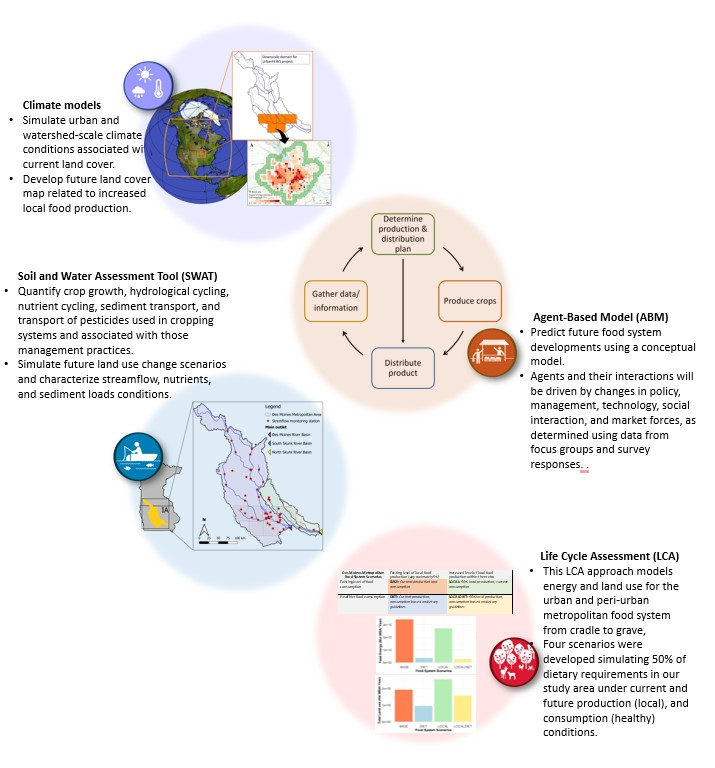
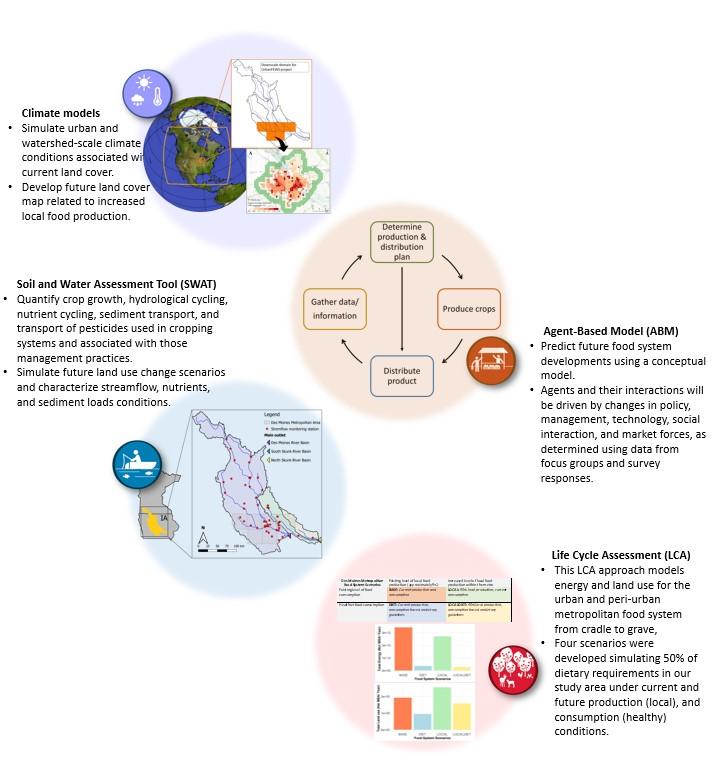
Changed some text on home. MSA models new image with no red line. swat models in base and cosim reprocessed to remove HAY and BROM as necessary

Changed region(s): [[0.0, 0.25, 0.9846, 0.7188], [0.4615, 0.7188, 0.9846, 0.9688], [0.0308, 0.0625, 0.4615, 0.3125]]

diff --git a/pages/5_CoSim_Scenario-Extension_Agents.py b/pages/5_CoSim_Scenario-Extension_Agents.py
@@ -1,7 +1,8 @@
+#%%
 import streamlit as st
 import pandas as pd
 import plotly.graph_objects as go
-
+#%%
 st.set_page_config(page_title="CoSim", page_icon=":computer:")
 st.title(':computer: :handshake: CoSimulation Scenario : Extension Agents :gear: :computer: ')
 
@@ -77,7 +78,7 @@ fig_pie.update_layout(legend=dict(
 Even after intervention by extension agents, the overall contribution of row crops to the land use patterns remains significant.
 '''
 ## _________________________________________________SWAT ________________________________________________________________________
-
+#%%
 st.header(':seedling: SWAT maps farmer activity to available HRUs :droplet: ') 
 
 import plotly.express as px
@@ -90,12 +91,17 @@ crop_codes = {
     "PEAR": "Pear", "POTA": "Potato", "PUMP": "Pumpkin", "RASP": "Raspberry",
     "SCRN": "Sweet corn", "SOYB": "Soybean", "SPIN": "Spinach", "SPOT": "Sweet potato",
     "SQUA": "Squash", "STRW": "Strawberry", "TOMA": "Tomato", "FESC": "Tall Fescue",
-    "BROM": "Meadow Bromegrass", "HAY": "Hay", "CANA": "Canola oil", "SGBT": "Sugar beet",
+    #"BROM": "Meadow Bromegrass", 
+    "WWHT" : "Winter Wheat",
+    "HAY": "Hay", "CANA": "Canola oil", "SGBT": "Sugar beet",
     "SNPB": "Snap beans"
 }
 
+#%%
 # Base file directory
 base_dir='SWAT_base/'
+
+#%%
 # Load the historical and future data
 df_swat_abm_base = pd.read_csv(base_dir+'TxtInOutABM_base_output.csv')
 df_swat_abm_ext = pd.read_csv(base_dir+'TxtInOutABM_ext_output.csv')
@@ -103,7 +109,7 @@ df_swat_abm_base.set_index('Unnamed: 0', inplace=True)
 df_swat_abm_ext.set_index('Unnamed: 0', inplace=True)
 
 # Filter and clean data
-unwanted_values = ["HAY", "WATR", "WETF", "WETN", "WWHT"]
+unwanted_values = [ "WATR", "WETF", "WETN"] # Removed HAY and WWHT from unwanted values
 df_swat_abm_base_filtered = df_swat_abm_base[~df_swat_abm_base.index.isin(unwanted_values)]
 df_swat_abm_ext_filtered = df_swat_abm_ext[~df_swat_abm_ext.index.isin(unwanted_values)]
 df_swat_abm_base_filtered.drop(columns=['AVG'], inplace=True)
@@ -112,19 +118,19 @@ df_swat_abm_ext_filtered.drop(columns=['AVG'], inplace=True)
 # Order crop_codes alphabetically by value
 crop_codes = dict(sorted(crop_codes.items(), key=lambda item: item[1]))
 selected_crop_code = st.selectbox('Select a Crop', options=list(crop_codes.keys()), format_func=lambda x: crop_codes[x])
-
+#%%
 # Extract data for selected crop across all available years
 data_swat_abm_base = df_swat_abm_base_filtered.loc[selected_crop_code].reset_index()
 data_swat_abm_ext = df_swat_abm_ext_filtered.loc[selected_crop_code].reset_index()
-data_swat_abm_base['Dataset'] = 'Base Sceneario'
-data_swat_abm_ext['Dataset'] = 'Exetnsion Agents Intervention'
+data_swat_abm_base['Dataset'] = 'Base Scenario'
+data_swat_abm_ext['Dataset'] = 'Extension Agents Intervention'
 
 # Combine data
 combined_data = pd.concat([data_swat_abm_base, data_swat_abm_ext])
-
+#%%
 # Plot boxplot
 fig_swat_box = px.box(combined_data, x='Dataset', y=selected_crop_code, color='Dataset', 
-                      title=f'Boxplot Comparison for {crop_codes[selected_crop_code]} (1999-2018)')
+                      title=f'Boxplot Comparison for {crop_codes[selected_crop_code]} ')
 
 # Update x-axis label
 fig_swat_box.update_xaxes(title_text="Scenario")
@@ -137,14 +143,14 @@ fig_swat_box.update_layout(showlegend=False)
 
 st.plotly_chart(fig_swat_box)
 
-''' At the end of swat the marketable yields are calculated for eeach crop and this is used as input to LCA'''
+''' At the end of swat the marketable yields are calculated for each crop and this is used as input to LCA'''
     
 ## _________________________________________________LCA ________________________________________________________________________
 
 
 st.header(':ear_of_rice: Life Cycle Analysis of Food Systems ')  
 
-st.subheader('Current vs Future scenario:')
+st.subheader('Base vs Extension Agent scenario:')
 
 chart_data_base = pd.read_pickle(r'lca_abm_base.pickle')
 

diff --git a/pages/2_SWAT.py b/pages/2_SWAT.py
@@ -58,6 +58,7 @@ crop_codes = {
     "PEAR": "Pear", "POTA": "Potato", "PUMP": "Pumpkin", "RASP": "Raspberry",
     "SCRN": "Sweet corn", "SNPB": "Snap beans", "SOYB": "Soybean", "SPIN": "Spinach", "SPOT": "Sweet potato",
     "SQUA": "Squash", "STRW": "Strawberry", "TOMA": "Tomato", 
+    "WWHT" : "Winter Wheat",
     #"BROM": "Meadow Bromegrass", "HAY": "Hay", 
     #"CANA": "Canola oil", "SGBT": "Sugar beet", 
     # Above are missing in TxtInOutHist and Fut
@@ -75,9 +76,10 @@ df_2020.set_index('Unnamed: 0', inplace=True)
 df_2050.set_index('Unnamed: 0', inplace=True)
 
 # Filter and clean data
-unwanted_values = ["HAY", "WATR", "WETF", "WETN", "WWHT"]
+unwanted_values = ["HAY", "WATR", "WETF", "WETN"]
 df_2020_filtered = df_2020[~df_2020.index.isin(unwanted_values)]
 df_2050_filtered = df_2050[~df_2050.index.isin(unwanted_values)]
+#%%
 df_2020_filtered.drop(columns=['AVG'], inplace=True)
 df_2050_filtered.drop(columns=['AVG'], inplace=True)
 
@@ -90,15 +92,27 @@ selected_crop_code = st.selectbox('Select a Crop', options=list(crop_codes.keys(
 # Extract data for selected crop and specific years
 data_1995_2004 = df_2020_filtered.loc[selected_crop_code, '1995':'2004'].reset_index()
 data_2039_2048 = df_2050_filtered.loc[selected_crop_code, '2039':'2048'].reset_index()
-data_1995_2004['Year Range'] = '1995-2004'
-data_2039_2048['Year Range'] = '2039-2048'
+#%%
+data_1995_2004['Dataset'] = 'Current Scenario'
+data_2039_2048['Dataset'] = 'Future Scenario'
+
 
 # Combine data
 combined_data = pd.concat([data_1995_2004, data_2039_2048])
 
 #%%
 # Plot boxplot
-fig_swat_box = px.box(combined_data, x='Year Range', y=selected_crop_code, title=f'Boxplot for {crop_codes[selected_crop_code]} over the Selected Years')
+fig_swat_box = px.box(combined_data, x='Dataset', y=selected_crop_code, title=f'Boxplot for {crop_codes[selected_crop_code]} over the Selected Years')
+# Update x-axis label
+fig_swat_box.update_xaxes(title_text="Scenario")
+
+# Update y-axis label
+fig_swat_box.update_yaxes(title_text="Yield (kg/ha)")
+
+# Update layout to remove legend
+fig_swat_box.update_layout(showlegend=False)
+
+#Plot
 st.plotly_chart(fig_swat_box)
 
 

diff --git a/Home.py b/Home.py
@@ -13,11 +13,11 @@ st.title(':city_sunrise: Metropolitan Statistical Area CoSimulation :deciduous_t
 '''     **👈 Before you navigate to a page from the sidebar** let us introduce ourselves...'''
 ''' ''' 
 ''' '''
-'''We are the Iowa Urban FEWS team''' 
+'''We are the Iowa Urban Food Energy Water Systems (FEWS) team.''' 
 '''Our study site is the Des Moines-West Des Moines Metropolitan Statistical Area (MSA), Iowa. 
 We've created a framework that allows us to look at how the climate, land use, buildings, energy consumption, and environmental impacts all interact. 
 We're particularly interested in understanding how different factors like policies, farming methods, technology, social interactions, and market trends affect food production.
-re 
+
 To do this, we use a method called data-driven **co-simulation**... but first let's get to know our models!'''
 
 # add MSA image 
